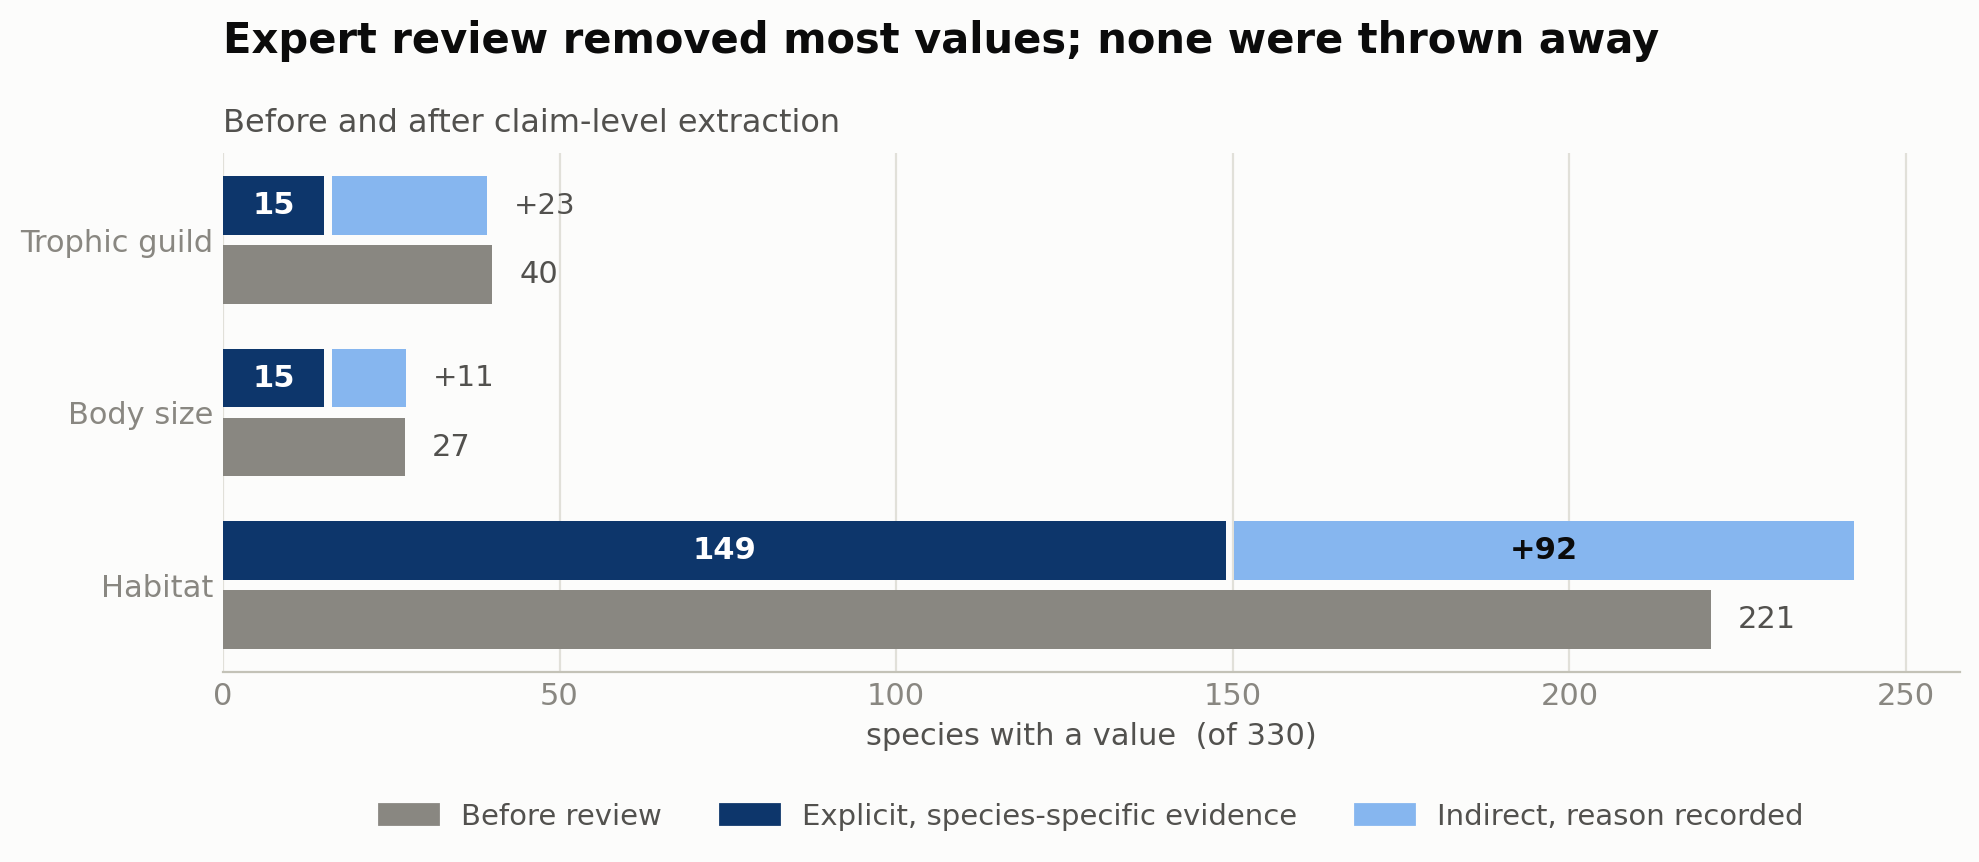
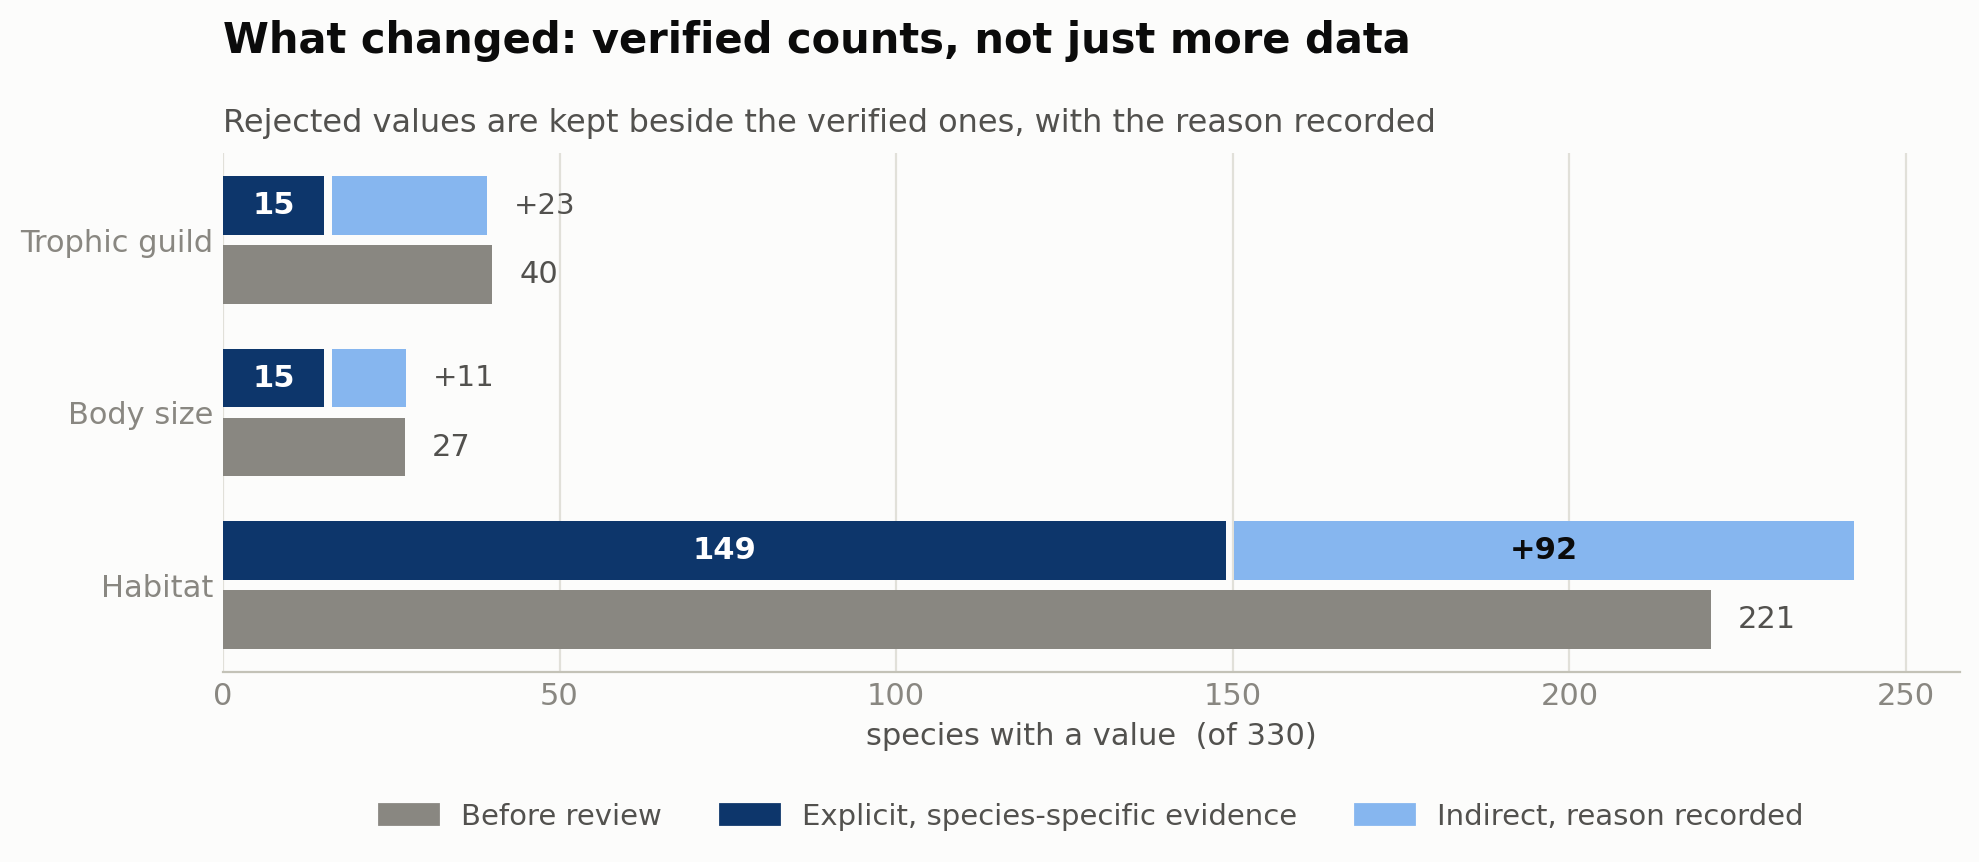
Retitle the before/after figure
The old title needed a paragraph of explanation to be understood, which is a
sign it was the wrong title. The point about rejected values being kept rather
than deleted moves to the subtitle, where it belongs.

Changed region(s): [[0.0925, 0.0, 0.8322, 0.0603], [0.1233, 0.1206, 0.7398, 0.1508]]

diff --git a/scripts/make_slide_figures.py b/scripts/make_slide_figures.py
@@ -42,9 +42,9 @@ ax.set_yticks(list(y)); ax.set_yticklabels(traits, fontsize=12, color=INK)
 ax.invert_yaxis()
 ax.set_xlim(0, 258); ax.set_xlabel("species with a value  (of 330)", fontsize=11, color=SEC)
 style(ax)
-ax.set_title("Expert review removed most values; none were thrown away",
+ax.set_title("What changed: verified counts, not just more data",
              fontsize=15, color=INK, weight="bold", loc="left", pad=36)
-ax.text(0, 1.04, "Before and after claim-level extraction",
+ax.text(0, 1.04, "Rejected values are kept beside the verified ones, with the reason recorded",
         transform=ax.transAxes, fontsize=11.5, color=SEC)
 ax.legend(handles=[Patch(color=NEUTRAL, label="Before review"),
                    Patch(color=EXPLICIT, label="Explicit, species-specific evidence"),
